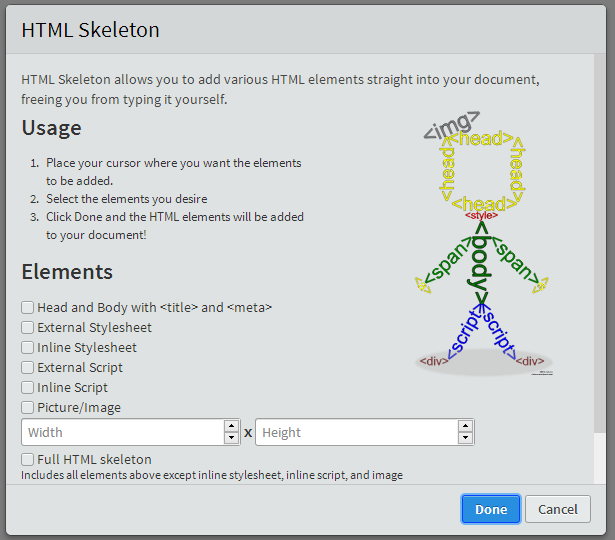
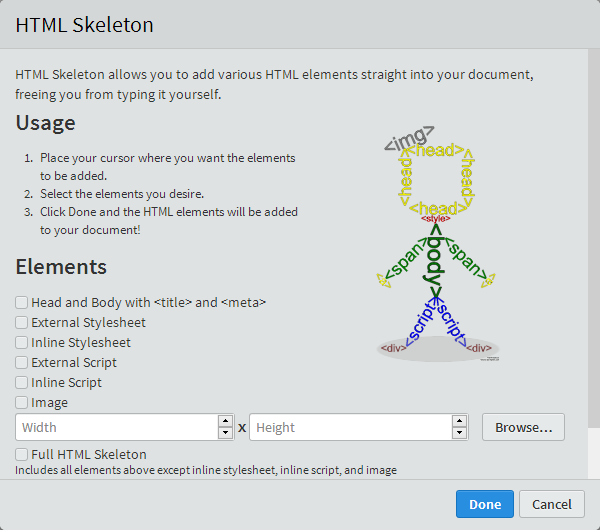
Update change log, screenshot

Changed region(s): [[0.0, 0.0, 1.0, 1.0]]

diff --git a/main.js b/main.js
@@ -211,26 +211,26 @@ define(function (require, exports, module) {
       var $inputWidth  = $imgWidthID.val(),
           $inputHeight = $imgHeightID.val();
 
-      // The width box was filled out, use that value
+      // The values could not be picked out,
+      // Use 0 instead
+      // NOTE: For SVGs, temp action until #15 is complete
       switch ($inputWidth) {
-        case "270":
-          $imgWidth = 0;
-          break;
         case "":
           $imgWidth = 0;
           break;
+        // The width box was filled out, use that value
         default:
           $imgWidth = $inputWidth;
       }
 
-      // The height box was filled out, use that value
+      // The values could not be picked out,
+      // Use 0 instead
+      // NOTE: For SVGs, temp action until #15 is complete
       switch ($inputHeight) {
-        case "240":
-          $imgHeight = 0;
-          break;
         case "":
           $imgHeight = 0;
           break;
+        // The height box was filled out, use that value
         default:
           $imgHeight = $inputHeight;
       }

diff --git a/NEWS.md b/NEWS.md
@@ -2,12 +2,14 @@
 
 ## 1.2.0 ##
 
-### ??/??/14 ##
+### 6/29/14 ##
 
 * Updated minimum Brackets version to Sprint 37
 * Use user indentation settings via new Preferences System from Sprint 37
 * Add toolbar icon, design finalized by [@rioforce](https://github.com/rioforce)
-* Various code improvements
+* Allow user to browse for image, preview that image, and use the path to the image and the image width and height in code snippet
+Supports all formats classified as images by Brackets core plus beta support for SVG images
+* Various code improvements and cleanup
 
 ## 1.1.4 ##
 

diff --git a/README.md b/README.md
@@ -25,6 +25,6 @@ See [NEWS.md](NEWS.md) for all changes.
 
 [The MIT License](LICENSE.md)
 
-Extension loading taken from the [Edge Web Fonts extension for Brackets](https://github.com/adobe/brackets-edge-web-fonts).
+Created 2014 [Triangle717](http://le717.github.io)
 
 Logo created by [**@rioforce**](https://github.com/rioforce) ([http://rioforce.wordpress.com](http://rioforce.WordPress.com)).
